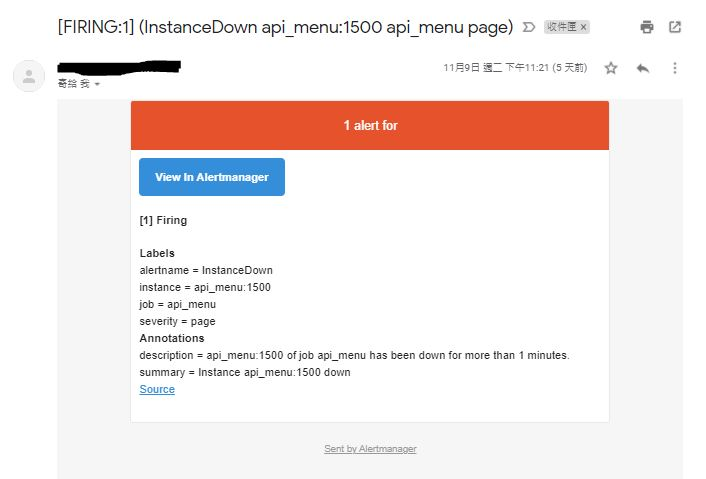
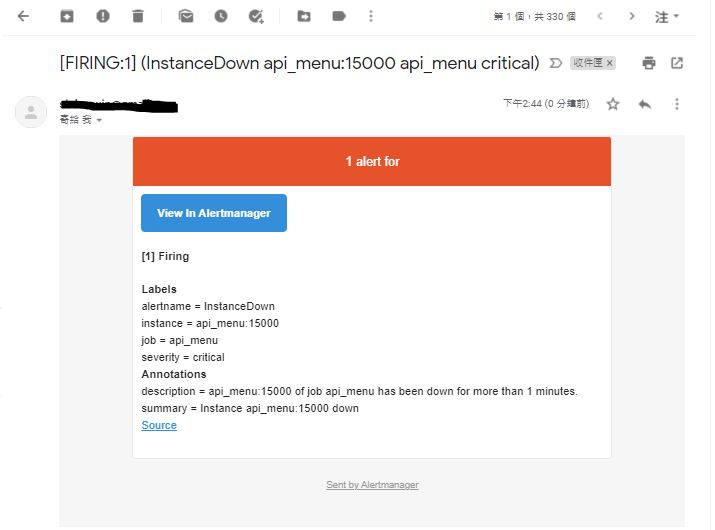
Step7 Update

Changed region(s): [[0.0312, 0.0, 0.966, 0.4969], [0.187, 0.5261, 0.8102, 0.8476], [0.4363, 0.9061, 0.5921, 0.9645]]

diff --git a/test-scenario/step7.md b/test-scenario/step7.md
@@ -15,20 +15,45 @@ Open a new window
     Now you will see the status for all rules in promethuse.
     ![Katacoda Logo](./assets/step7/Prometheus_Alerts.jpg)
 
-5.  Now, we simulate there is a micoservice "DOWN".
-    1.  Back to the Katacoda webpage, one a new terminal.
+5.  Now, we simulate there is too many error response (4xx/5xx).
+    1.  Back to the Katacoda webpage, open a new terminal.
         ![Katacoda Logo](./assets/step7/New_Terminal.JPG)
-    2.  Remove either one microservice container
-        `docker rm -f api_menu`{{execute}}
-        ![Katacoda Logo](./assets/step7/Prometheus_DeleteContainer.jpg)
-    3.  Wait ~ 1min, back to the promethus 
-        The rules of check service 'DOWN' statuse will return to `Pending`
-        ![Katacoda Logo](./assets/step7/Prometheus_Alerts_Pendine.jpg)
-    4.  After ~ 1min it will check the service again, if it still in 'DOWN' status. The alert will return to `Firing`
-        ![Katacoda Logo](./assets/step7/Prometheus_Alerts_Firing.jpg)
+
+    2.  Run few error request to make the error reponse > 5%
+        `curl http://localhost:20080/menu/stores/123/menus` {{execute}}
+        `curl http://localhost:20080/menu/stores/123/menus` {{execute}}
+        ![Katacoda Logo](./assets/step7/Prometheus_Alerts_ErrorCode.jpg)
+
+    3.  Wait ~ 30s, back to the promethus 
+        The rules of check 4XX reponse code statuse will return to `Pending`
+        ![Katacoda Logo](./assets/step7/Prometheus_Alert_Error4xx_pending.jpg)
+
+    4.  After ~ 30s it will check the rules again, if the 4XX-response code is still > 5%.
+        The rules of check 4XX reponse code statuse will return to `Firing`
+        ![Katacoda Logo](./assets/step7/Prometheus_Alert_Error4xx.jpg)
+
     5.  View the Alertmanger at localhost:9093:
         You will see the alert details.
     https://[[HOST_SUBDOMAIN]]-9093-[[KATACODA_HOST]].environments.katacoda.com
+        ![Katacoda Logo](./assets/step7/Prometheus_Alertmanger.jpg)
+
+6.  Now, we simulate there is a micoservice "DOWN".
+    1.  Back to the Katacoda webpage, open a new terminal.
+        ![Katacoda Logo](./assets/step7/New_Terminal.JPG) 
+
+    2.  Remove either one microservice container
+        `docker rm -f api_menu`{{execute}}
+        ![Katacoda Logo](./assets/step7/Prometheus_DeleteContainer.jpg)
+
+    3.  Wait ~ 1min, back to the promethus 
+        The rules of check service 'DOWN' statuse will return to `Pending`
+        ![Katacoda Logo](./assets/step7/Prometheus_Alerts_Pendine.jpg)
+
+    4.  After ~ 1min it will check the service again, if it still in 'DOWN' status. The alert will return to `Firing`
         ![Katacoda Logo](./assets/step7/Prometheus_Alerts_Firing.jpg)
-    6.  Also, you will receive an email for the alert message.
-        ![Katacoda Logo](./assets/step7/Prometheus_Alerts_Firing.jpg)
+
+    5.  You will receive an email for the alert message.
+        ![Katacoda Logo](./assets/step7/Prometheus_Alertmanger.jpg)
+
+7.  Remove all the container and images.
+    `docker-compose down -v --rmi all` {{execute}}
